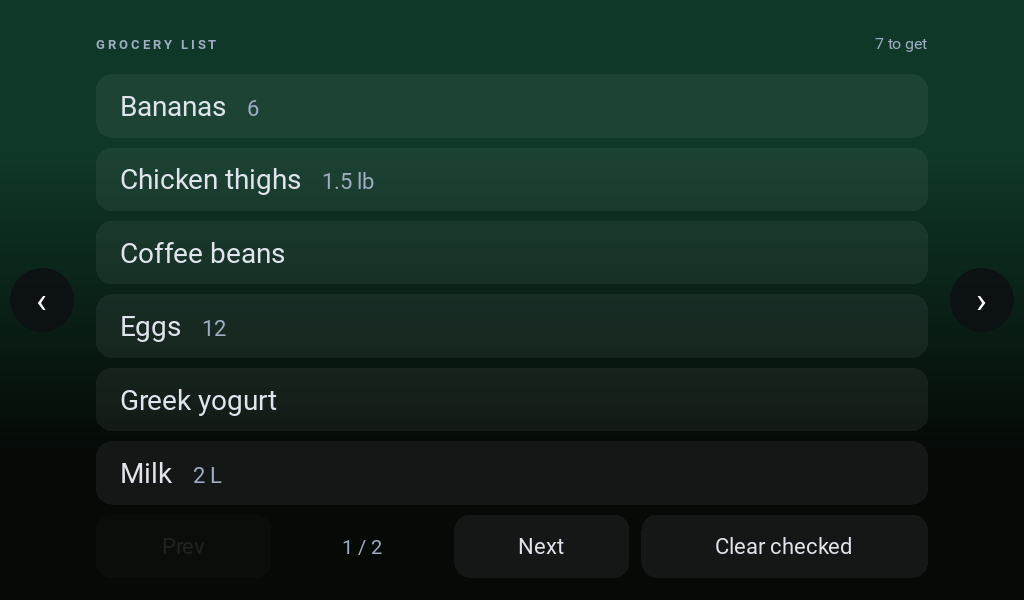
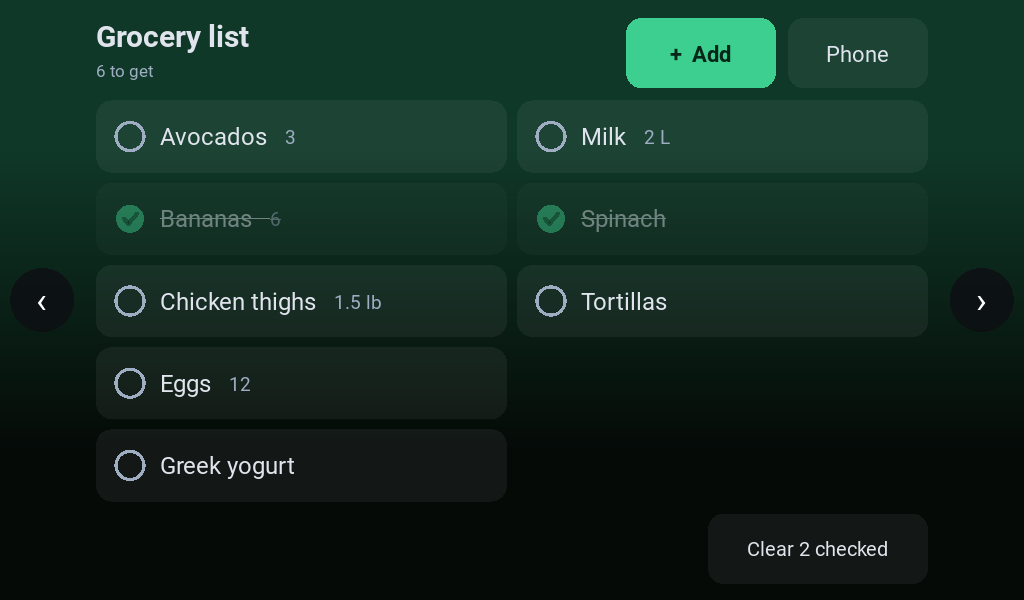
README for phone pairing, quick add and the new grocery screen

diff --git a/README.md b/README.md
@@ -2,16 +2,19 @@
 
 A kitchen assistant that runs on a Raspberry Pi with a touchscreen. It keeps track of your **pantry**, **meal plan** and **grocery list**, and lets Claude manage all three through an [MCP](https://modelcontextprotocol.io) server.
 
-> **Status:** the data layer, REST API, MCP server and the touchscreen grocery list work today. More screens, the "plan my week" agent and receipt scanning are coming next (see [Roadmap](#roadmap)).
+> **Status:** the grocery list works end to end today: on the touchscreen, on your phone, and through Claude. More screens, the "plan my week" agent and receipt scanning are coming next (see [Roadmap](#roadmap)).
 
-![Grocery list on the 7" touchscreen](docs/grocery-screen.png)
+| Kitchen touchscreen | Your phone |
+|---|---|
+| ![Grocery list on the 7" touchscreen](docs/grocery-screen.png) | <img src="docs/phone-page.jpg" alt="Grocery list on a phone" width="260"> |
 
 ## What it does
 
 - **Pantry:** what you have, how much, and when it expires. Shows what to use soon.
 - **Meal plan:** breakfast, lunch, dinner and snacks by day, with optional recipes.
-- **Grocery list:** add and check off items. Adding something already on the list merges it instead of creating a duplicate.
-- **Touchscreen app:** a big-button kitchen display. Tap an item on the grocery list to check it off; arrows switch between screens.
+- **Grocery list:** add and check off items. Adding something already on the list merges it instead of creating a duplicate, and re-adding something you checked off brings it back.
+- **Touchscreen app:** a big-button kitchen display. Tap an item to check it off; it dims in place so nothing moves under your finger. **+ Add** shows one-tap buttons for the things you buy most.
+- **Phone page:** tap **Phone** on the touchscreen and scan the QR code. Your phone gets the grocery list with a text box for adding anything, suggestion chips, and check-offs. Type `2 avocados` and it records the quantity. Save it to your home screen and it works like an app.
 - **Claude integration:** any MCP client, such as Claude Code, can read and change all of the above. Ask "what's expiring this week?" or "add milk and eggs to the grocery list".
 
 ## How it works
@@ -20,12 +23,14 @@ A kitchen assistant that runs on a Raspberry Pi with a touchscreen. It keeps tra
 flowchart LR
     CC[Claude Code / MCP client] -- /mcp --> S
     UI[Touchscreen app] -- /api --> S
+    PH[Phone browser] -- /m and /api --> S
     S[FastAPI server :8000] --> T[core/tools.py]
     T --> DB[(SQLite kitchen.db)]
 ```
 
 - **`core/tools.py`** holds every kitchen action (add an item, set a meal, check off a grocery). Each piece of the app calls these same functions, so the logic lives in one place.
 - **`server/app.py`** is a single FastAPI server that exposes those functions two ways: as an MCP server at `/mcp` for Claude, and as a small REST API at `/api` for the touchscreen.
+- **`server/phone.py`** handles pairing phones and serves the phone page (`server/static/`). Plain HTML, CSS and JavaScript, with no build step and no outside requests.
 - **`ui/`** is the Kivy touchscreen app. It only talks to the server's REST API, always from a background thread so taps never freeze while the network is slow.
 - **`core/db.py`** stores everything in a single SQLite file. The tables are created automatically the first time it runs.
 
@@ -88,6 +93,11 @@ flowchart LR
    ```
    It opens a 1024x600 window on Windows and goes fullscreen on Linux. It reads the same `.env`, so it uses your token automatically.
 
+7. **Connect your phone.** Tap **Phone** on the touchscreen and scan the code with your phone's camera. Your phone has to be on the same network as the server (or on Tailscale). Then use your browser's "Add to Home Screen". Set `KITCHEN_PUBLIC_URL` if the QR code should use a hostname instead of the server's local IP; see [Configuration](#configuration).
+
+![Quick add on the touchscreen](docs/quick-add.png)
+![Pairing a phone](docs/phone-pairing.png)
+
 ## Connect Claude
 
 With the server running, register it with Claude Code:
@@ -119,6 +129,7 @@ From another device, replace `localhost` with the server's hostname (for example
 | `add_grocery_items` | Add items, merging any already on the list |
 | `check_grocery_item` | Check or uncheck an item |
 | `clear_checked_groceries` | Delete checked-off items |
+| `get_frequent_groceries` | Suggest items to re-add: the most bought first, then common staples |
 
 ### REST API
 
@@ -128,10 +139,15 @@ From another device, replace `localhost` with the server's hostname (for example
 | GET | `/api/expiring?days=3` | Items expiring soon |
 | GET | `/api/meals?start=YYYY-MM-DD&days=7` | Meal plan (start defaults to today) |
 | GET | `/api/grocery?include_checked=false` | Grocery list |
+| POST | `/api/grocery` | Add items, body: `[{"name": "Milk", "qty": 2, "unit": "L"}]` |
+| GET | `/api/grocery/frequent?limit=12` | Suggested items to re-add |
 | POST | `/api/grocery/{id}/check?checked=true` | Check or uncheck an item |
 | POST | `/api/grocery/clear-checked` | Delete checked-off items |
 
-Every request needs the header `Authorization: Bearer <KITCHEN_TOKEN>`; without it you get `401`. Bad input (an unknown id, a malformed date) returns `400` with a `detail` message.
+| POST | `/api/pair` | One-time QR pairing link for a phone (token only) |
+| POST | `/api/phones/revoke-all` | Sign out every paired phone (token only) |
+
+Every request needs the header `Authorization: Bearer <KITCHEN_TOKEN>` (or, for `/api` routes other than the two marked "token only", a paired phone's session cookie); without it you get `401`. Bad input (an unknown id, a malformed date) returns `400` with a `detail` message.
 
 ## Configuration
 
@@ -140,13 +156,20 @@ Every request needs the header `Authorization: Bearer <KITCHEN_TOKEN>`; without 
 | `KITCHEN_TOKEN` | none (required) | Bearer token every REST and MCP request must send |
 | `KITCHEN_DB` | `kitchen.db` in the repo folder | Where the SQLite database lives |
 | `KITCHEN_API` | `http://127.0.0.1:8000` | Server address the touchscreen app talks to |
+| `KITCHEN_PUBLIC_URL` | `http://<server's local IP>:8000` | Address phones use, put in the pairing QR code. Set it to the Pi's Tailscale name so phones work away from home too. |
 
 Settings are read from `.env` (see `.env.example`).
 
 ## Security
 
 - **Secrets stay local.** Tokens and API keys live only in `.env` (gitignored) or the Pi's service environment, never in the code or the repo.
-- **Every request is authenticated.** `/api` and `/mcp` require the bearer token (compared in constant time). Only `/docs` and `/openapi.json` are open, and they describe the API, not your data.
+- **Every request is authenticated.** `/api` and `/mcp` require the bearer token (compared in constant time). Only `/docs`, `/openapi.json` and the phone page's empty shell are open, and none of them contain your data.
+- **Phones never see the token.** Pairing uses a random one-time code that expires after 5 minutes. Scanning it gives the phone its own session cookie (`HttpOnly`, `SameSite=Lax`), stored only as a SHA-256 hash on the server. Phone sessions can use the grocery API but not `/mcp` or pairing. If a phone is lost, sign them all out:
+  ```bash
+  curl -X POST -H "Authorization: Bearer <KITCHEN_TOKEN>" http://localhost:8000/api/phones/revoke-all
+  ```
+- **The phone page is locked down.** It has a strict Content-Security-Policy, renders item names as text and never as HTML, and refuses to be framed.
+- **Input is validated.** Item names are trimmed and limited to 80 characters, and dates and meal slots are checked.
 - **Network.** Even with the token, run the server only on your home network or a private network like Tailscale. Don't port-forward it to the internet.
 - **Database.** `kitchen.db` is gitignored and never leaves the device except in your own backups.
 
@@ -155,13 +178,17 @@ Settings are read from `.env` (see `.env.example`).
 ```
 core/db.py          SQLite schema and connection
 core/tools.py       Every kitchen action (shared by MCP, REST and the UI)
-server/app.py       FastAPI server: REST at /api, MCP at /mcp
+server/app.py       FastAPI server: REST at /api, MCP at /mcp, auth
+server/phone.py     Phone pairing, sessions and the phone page
+server/static/      Phone page HTML, CSS and JavaScript
 ui/main.py          Touchscreen app: screens, arrows, screen-name badge
 ui/grocery_screen.py  Grocery list screen
+ui/panels.py        Quick add and phone pairing pop-ups
 ui/clock_screen.py  Clock screen
 ui/api.py           Background-thread REST client for the app
 ui/ui_common.py     Shared look: gradients, cards, buttons, tap debounce
-tests/              Tests for the tools and the token check (temporary databases)
+tests/              Tests for the tools, auth and phone pairing (temporary databases)
+docs/               Screenshots
 .env.example        The settings you need, with no values
 requirements.txt    Pinned Python dependencies
 ```
@@ -171,6 +198,7 @@ requirements.txt    Pinned Python dependencies
 - [x] Pantry, meal plan and grocery data with tests
 - [x] REST API and MCP server
 - [x] Touchscreen app with the grocery list and a clock
+- [x] Add from your phone (QR pairing) and one-tap quick add
 - [ ] More screens: today's meals, pantry, step-by-step cook mode
 - [ ] "Plan my week" button: Claude builds a meal plan from what's in the pantry
 - [ ] Receipt scanning: photograph a receipt and Claude adds the items to the pantry with expiry dates
